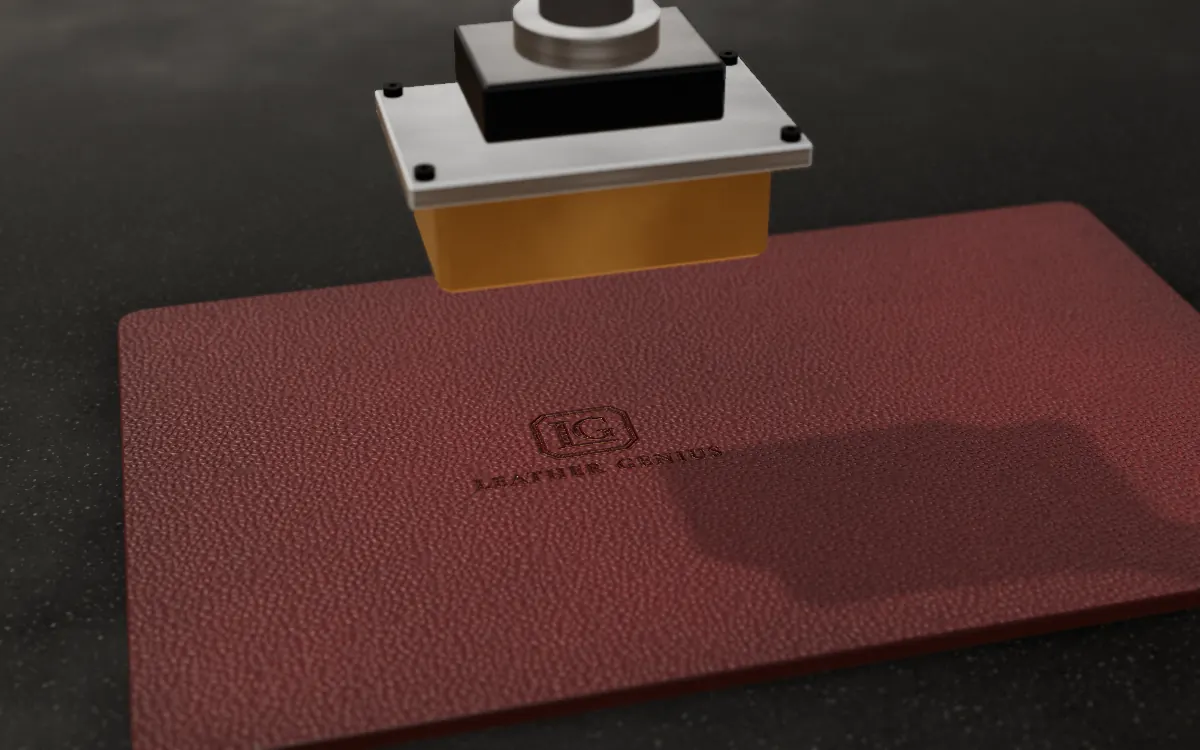
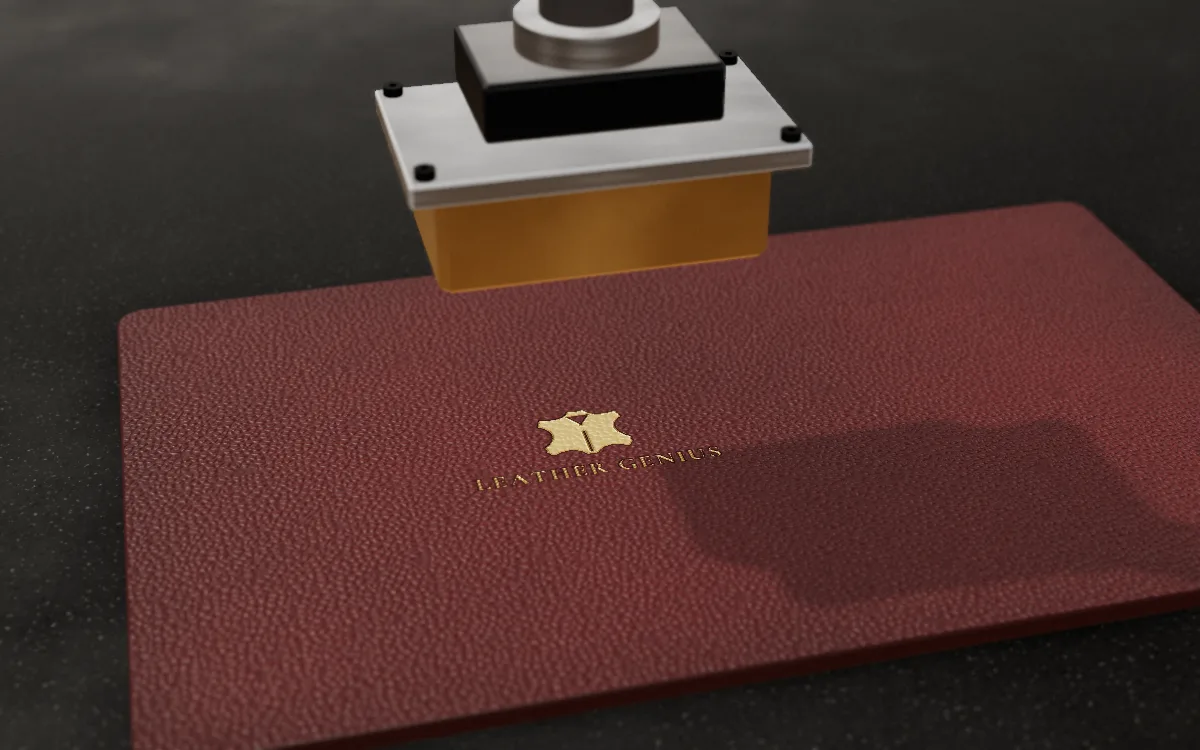
Rebrand animations (zipper pull, stamp die, workbench marks) with the hide mark + LEATHER GENIUS wordmark; regenerate posters/fallbacks; jacket-focused titles and meta

Changed region(s): [[0.4317, 0.5213, 0.5858, 0.644]]

diff --git a/public/assets/fx/zipper/module.js b/public/assets/fx/zipper/module.js
@@ -159,9 +159,9 @@ function loadImage(url) {
   return new Promise((res, rej) => { const i = new Image(); i.decoding = 'async'; i.onload = () => res(i); i.onerror = rej; i.src = url; });
 }
 
-const LG_PATH = 'M12 0H52L64 12V52L52 64H12L0 52V12ZM49.64 48.86 54 44.5H21.5V44.2Q21.48 43.9 21.48 43.46V22.68Q21.48 21.62 21.61 21.2Q22.030 21.05 23.16 21.05Q23.66 21.05 24.07 20.77Q24.44 20.53 24.64 20.13Q24.83 19.73 24.83 19.23Q24.83 18.73 24.64 18.34Q24.44 17.94 24.07 17.69Q23.66 17.42 23.16 17.42L20.81 17.46Q20.79 17.46 20.78 17.47Q18.72 17.55 17.39 17.55Q16.07 17.55 14.01 17.47Q14 17.46 13.98 17.46L11.66 17.42Q10.97 17.42 10.5 17.89Q10.23 18.16 10.1 18.54Q10 18.85 10 19.23Q10 19.62 10.1 19.93Q10.23 20.3 10.5 20.58Q10.97 21.05 11.63 21.05Q12.77 21.05 13.19 21.2Q13.21 21.21 13.22 21.22Q13.36 21.58 13.36 22.64V43.64Q13.36 44.69 13.21 45.09Q12.79 45.23 11.630 45.23Q10.97 45.23 10.5 45.7Q10.23 45.97 10.1 46.35Q10 46.66 10 47.04Q10 47.43 10.1 47.73Q10.23 48.11 10.5 48.39Q10.97 48.86 11.63 48.86ZM26.1 28.68Q26.1 32.34 27.88 35.34Q29.67 38.35 33.04 40.08Q36.36 41.78 40.76 41.78Q44.73 41.78 49.66 40.71Q49.75 40.69 49.84 40.66Q50.3 40.48 50.52 40.32Q51.1 39.88 51.1 39.03Q51.1 38.72 50.95 37.9Q50.84 37.31 50.84 35.75Q50.84 33.65 50.91 32.87Q50.92 32.76 50.93 32.66Q51.67 32.66 52.08 32.07Q52.37 31.67 52.37 31.14Q52.37 30.71 52.13 30.32Q51.97 30.05 51.72 29.87Q51.36 29.61 50.92 29.61Q50.88 29.61 50.85 29.62Q48.84 29.73 46.97 29.73Q45.08 29.73 41.95 29.54Q41.91 29.54 41.88 29.54Q41.43 29.54 41.07 29.8Q40.83 29.97 40.66 30.25Q40.43 30.64 40.43 31.1Q40.43 31.67 40.73 32.08Q41.17 32.66 41.91 32.66Q43.48 32.66 44 32.85Q44.12 32.89 44.16 33.04Q44.33 33.63 44.33 35.38Q44.33 37.04 44.04 37.79Q43.87 38.25 43.56 38.38Q42.97 38.62 41.69 38.62Q39.3 38.62 37.38 37.27Q35.42 35.89 34.29 33.33Q33.14 30.69 33.14 27.27Q33.14 23.12 34.87 20.82Q36.48 18.68 39.64 18.68Q42.19 18.68 44.15 20.05Q46.15 21.45 47.31 24Q47.32 24.020 47.33 24.04Q47.57 24.53 48.07 24.74Q48.49 24.92 48.97 24.83Q49.36 24.75 49.65 24.52Q50.17 24.1 50.17 23.44Q50.17 23.38 50.17 23.32L49.68 18.15Q49.62 17.48 49.4 17.08Q49.08 16.5 48.31 16.23Q47.1 15.74 45.2 15.44Q43.31 15.14 41.47 15.14Q37.2 15.14 33.72 16.81Q30.19 18.51 28.15 21.61Q26.1 24.74 26.1 28.68Z';
+const LG_PATH = 'M25.92 0.96 L28.16 0.96 L28.48 1.28 L29.76 1.28 L30.08 1.60 L33.60 1.60 L33.92 1.28 L34.88 1.28 L35.20 0.96 L37.44 0.96 L38.40 2.24 L38.72 3.20 L41.28 5.76 L43.52 7.04 L44.16 7.04 L45.12 7.68 L47.36 8.00 L47.68 8.32 L50.24 8.32 L50.56 8.64 L51.84 8.64 L52.16 8.32 L54.72 8.32 L55.04 8.00 L56.32 8.00 L56.64 7.68 L57.60 7.68 L57.92 7.36 L59.52 7.36 L60.16 7.68 L60.48 8.32 L60.48 9.92 L61.12 11.20 L61.76 11.84 L62.08 15.04 L61.44 15.68 L60.16 16.32 L57.60 18.88 L57.60 19.20 L56.32 20.80 L55.36 22.72 L55.36 23.36 L55.04 23.68 L54.40 28.16 L54.72 28.48 L54.72 30.40 L55.04 30.72 L55.68 33.28 L56.64 34.56 L56.96 35.52 L58.56 37.44 L58.56 37.76 L60.16 39.36 L60.48 39.36 L61.76 40.64 L62.08 40.64 L63.04 41.92 L63.04 42.88 L62.40 43.84 L62.72 47.36 L61.12 48.96 L59.84 51.52 L59.20 51.84 L57.60 51.84 L54.08 49.92 L53.44 49.92 L53.12 49.60 L52.48 49.60 L51.20 48.96 L50.24 48.96 L49.92 48.64 L44.80 48.64 L44.48 48.96 L42.56 49.28 L40.64 50.24 L37.12 53.44 L36.48 54.72 L35.52 55.68 L34.88 55.68 L34.56 56.00 L34.24 55.68 L32.32 55.68 L32.00 55.36 L31.68 55.68 L29.44 55.68 L28.80 56.00 L27.52 55.04 L27.52 54.72 L26.56 53.76 L26.56 53.44 L24.32 51.20 L24.00 51.20 L21.76 49.60 L21.12 49.60 L20.80 49.28 L20.16 49.28 L18.88 48.64 L13.76 48.64 L13.44 48.96 L12.48 48.96 L12.16 49.28 L10.24 49.60 L5.76 51.84 L4.48 51.84 L3.52 51.20 L2.88 49.60 L0.96 47.36 L0.96 46.08 L1.60 44.80 L1.28 44.48 L1.28 43.84 L0.64 42.56 L0.96 42.24 L0.96 41.60 L1.92 40.64 L2.24 40.64 L5.12 37.76 L5.12 37.44 L6.72 35.52 L8.00 32.96 L8.00 32.32 L8.64 31.04 L8.64 29.76 L8.96 29.44 L8.96 25.60 L8.64 25.28 L8.64 24.00 L7.04 20.48 L5.12 18.24 L5.12 17.92 L2.88 16.00 L1.92 15.68 L1.28 14.72 L1.28 14.08 L1.92 13.12 L1.92 11.52 L2.88 10.56 L2.88 8.96 L3.20 8.64 L3.20 8.00 L3.84 7.36 L5.76 7.36 L7.04 8.00 L8.32 8.00 L8.64 8.32 L11.84 8.32 L12.16 8.64 L17.60 8.00 L17.92 7.68 L18.56 7.68 L18.88 7.36 L19.52 7.36 L20.80 6.72 L22.72 5.12 L23.04 5.12 L24.96 2.88ZM23.68 6.84 L32.00 18.80 L40.32 6.84ZM31.23 18.80 L31.23 52.97 L32.77 52.97 L32.77 18.80ZM30.08 19.94 L33.92 19.94 L33.92 26.77 L30.08 26.77Z';  // hide + collar + zip mark, 64 wide
 
-// Leather pull tab textures: colourised grain, debossed LG mark, saddle-stitched border.
+// Leather pull tab textures: colourised grain, debossed hide mark, saddle-stitched border.
 function makeTabTextures(albedoImg, normalImg, rgb, threadHex, Wt, Lt) {
   const W = 256, H = Math.round(256 * Lt / Wt);
   const pxPerWorld = W / Wt;
@@ -174,8 +174,8 @@ function makeTabTextures(albedoImg, normalImg, rgb, threadHex, Wt, Lt) {
   const g1 = h.createLinearGradient(0, 0, W, 0);
   g1.addColorStop(0, '#5a5a5a'); g1.addColorStop(0.07, '#808080'); g1.addColorStop(0.93, '#808080'); g1.addColorStop(1, '#5a5a5a');
   h.fillStyle = g1; h.fillRect(0, 0, W, H);
-  // deboss: LG octagon pressed in, letters stay proud
-  const markW = W * 0.7, mx = (W - markW) / 2, my = H * 0.58;
+  // deboss: the hide mark pressed in, collar opening and zip stay low
+  const markW = W * 0.8, mx = (W - markW) / 2, my = H * 0.60;
   const path = new Path2D(LG_PATH);
   const drawMark = (ctx, fill, blur) => {
     ctx.save(); ctx.translate(mx, my); ctx.scale(markW / 64, markW / 64);

diff --git a/public/index.html b/public/index.html
@@ -3,8 +3,8 @@
 <head>
   <meta charset="utf-8">
   <meta name="viewport" content="width=device-width, initial-scale=1">
-  <title>Private-Label Leather Jackets &amp; Bags Manufacturer | Leather Genius, Sialkot, Pakistan</title>
-  <meta name="description" content="We make leather jackets, bags and twill outerwear for other brands in Sialkot, Pakistan. Your first sample is built and sent by FedEx free. Runs start at 50 units a style.">
+  <title>Private-Label Leather Jacket Manufacturer | Leather Genius, Sialkot, Pakistan</title>
+  <meta name="description" content="Private-label leather jackets for independent brands, made in Sialkot, Pakistan by a workshop exporting for 30+ years. Your first sample is free, FedEx included, in 7 to 10 days. Jacket runs start at around 100 units a style.">
   <link rel="canonical" href="https://leathergenius.site/">
   <meta name="theme-color" content="#F6EFE4">
   <meta name="color-scheme" content="light">
@@ -13,15 +13,15 @@
   <meta property="og:site_name" content="Leather Genius">
   <meta property="og:locale" content="en_US">
   <meta property="og:url" content="https://leathergenius.site/">
-  <meta property="og:title" content="Private-Label Leather Jackets &amp; Bags Manufacturer | Leather Genius, Sialkot, Pakistan">
-  <meta property="og:description" content="We make leather jackets and bags for other brands in Sialkot. The first sample is free, FedEx included.">
+  <meta property="og:title" content="Private-Label Leather Jacket Manufacturer | Leather Genius, Sialkot, Pakistan">
+  <meta property="og:description" content="Your label. Our leather. Private-label leather jackets from a 30-year Sialkot workshop. The first sample is free, FedEx included.">
   <meta property="og:image" content="https://leathergenius.site/images/og.png">
   <meta property="og:image:width" content="1200">
   <meta property="og:image:height" content="630">
   <meta property="og:image:alt" content="Leather Genius: private-label leather, made in Sialkot.">
   <meta name="twitter:card" content="summary_large_image">
-  <meta name="twitter:title" content="Private-Label Leather Jackets &amp; Bags Manufacturer | Leather Genius, Sialkot, Pakistan">
-  <meta name="twitter:description" content="We make leather jackets and bags for other brands in Sialkot. The first sample is free, FedEx included.">
+  <meta name="twitter:title" content="Private-Label Leather Jacket Manufacturer | Leather Genius, Sialkot, Pakistan">
+  <meta name="twitter:description" content="Your label. Our leather. Private-label leather jackets from a 30-year Sialkot workshop. The first sample is free, FedEx included.">
   <meta name="twitter:image" content="https://leathergenius.site/images/og.png">
 
   <link rel="icon" href="/favicon.ico?v=3" sizes="32x32">
@@ -45,7 +45,7 @@
   <script src="/assets/site.js?v=4" defer></script>
   <script src="/assets/home.js?v=2" defer></script>
   <script type="application/ld+json">
-  {"@context":"https://schema.org","@type":"Organization","name":"Leather Genius","url":"https://leathergenius.site/","sameAs":["https://www.linkedin.com/company/leather-genius/","https://www.instagram.com/leather_genius/"],"logo":"https://leathergenius.site/apple-touch-icon.png?v=3","email":"stella@getleathergenius.com","description":"Private-label manufacturer of leather jackets, bags and twill outerwear in Sialkot, Pakistan.","address":{"@type":"PostalAddress","addressLocality":"Sialkot","addressCountry":"PK"}}
+  {"@context":"https://schema.org","@type":"Organization","name":"Leather Genius","url":"https://leathergenius.site/","sameAs":["https://www.linkedin.com/company/leather-genius/","https://www.instagram.com/leather_genius/"],"logo":"https://leathergenius.site/icon-512.png?v=3","email":"stella@getleathergenius.com","description":"Private-label leather jacket manufacturer in Sialkot, Pakistan. Also bags and twill outerwear.","address":{"@type":"PostalAddress","addressLocality":"Sialkot","addressCountry":"PK"}}
   </script>
 </head>
 <body>
@@ -362,11 +362,11 @@
   });
 </script>
 <script type="module">
-  import '/assets/fx/stamp/module.js?v=1';
+  import '/assets/fx/stamp/module.js?v=2';
   LGFx.stamp.mount(document.getElementById('fx-stamp'), { leather: 'oxblood', finish: 'foil', text: null });
 </script>
 <script type="module">
-  import '/assets/fx/zipper/module.js?v=2';
+  import '/assets/fx/zipper/module.js?v=3';
   LGFx.zipper.mount(document.body, { color: 'oxblood', metal: 'brass' });
 </script>
 </body>

diff --git a/public/process/index.html b/public/process/index.html
@@ -3,8 +3,8 @@
 <head>
   <meta charset="utf-8">
   <meta name="viewport" content="width=device-width, initial-scale=1">
-  <title>Process, Terms &amp; Pricing for Private-Label Leather | Leather Genius, Sialkot, Pakistan</title>
-  <meta name="description" content="How an order with us goes: a free sample in 7 to 10 days, 50 to 100 units per style, 4 to 6 weeks of production, 50% deposit and 50% on shipment. Terms, pricing and questions.">
+  <title>Process, Terms &amp; Pricing for Private-Label Leather Jackets | Leather Genius, Sialkot, Pakistan</title>
+  <meta name="description" content="How an order with us goes: a free sample in 7 to 10 days, around 100 jackets per style (50 for bags), 4 to 6 weeks of production, 50% deposit and 50% on shipment. Terms, pricing and questions.">
   <link rel="canonical" href="https://leathergenius.site/process/">
   <meta name="theme-color" content="#F6EFE4">
   <meta name="color-scheme" content="light">
@@ -13,15 +13,15 @@
   <meta property="og:site_name" content="Leather Genius">
   <meta property="og:locale" content="en_US">
   <meta property="og:url" content="https://leathergenius.site/process/">
-  <meta property="og:title" content="Process, Terms &amp; Pricing for Private-Label Leather | Leather Genius, Sialkot, Pakistan">
-  <meta property="og:description" content="A free sample in 7 to 10 days, 50 to 100 units per style, 4 to 6 weeks of production, and nothing to pay until you approve the sample.">
+  <meta property="og:title" content="Process, Terms &amp; Pricing for Private-Label Leather Jackets | Leather Genius, Sialkot, Pakistan">
+  <meta property="og:description" content="A free sample in 7 to 10 days, around 100 jackets per style, 4 to 6 weeks of production, and nothing to pay until you approve the sample.">
   <meta property="og:image" content="https://leathergenius.site/images/og.png">
   <meta property="og:image:width" content="1200">
   <meta property="og:image:height" content="630">
   <meta property="og:image:alt" content="Leather Genius: private-label leather, made in Sialkot.">
   <meta name="twitter:card" content="summary_large_image">
-  <meta name="twitter:title" content="Process, Terms &amp; Pricing for Private-Label Leather | Leather Genius, Sialkot, Pakistan">
-  <meta name="twitter:description" content="A free sample in 7 to 10 days, 50 to 100 units per style, 4 to 6 weeks of production, and nothing to pay until you approve the sample.">
+  <meta name="twitter:title" content="Process, Terms &amp; Pricing for Private-Label Leather Jackets | Leather Genius, Sialkot, Pakistan">
+  <meta name="twitter:description" content="A free sample in 7 to 10 days, around 100 jackets per style, 4 to 6 weeks of production, and nothing to pay until you approve the sample.">
   <meta name="twitter:image" content="https://leathergenius.site/images/og.png">
 
   <link rel="icon" href="/favicon.ico?v=3" sizes="32x32">

diff --git a/public/capabilities/index.html b/public/capabilities/index.html
@@ -3,8 +3,8 @@
 <head>
   <meta charset="utf-8">
   <meta name="viewport" content="width=device-width, initial-scale=1">
-  <title>Materials, Branding &amp; Quality Control | Leather Genius, Sialkot, Pakistan</title>
-  <meta name="description" content="The leathers we cut from in Sialkot, by weight: lambskin, cowhide, goat, suede, twill. Linings, YKK and RIRI zips, your branding, and the checks we run before every shipment.">
+  <title>Jacket Leathers, Branding &amp; Quality Control | Leather Genius, Sialkot, Pakistan</title>
+  <meta name="description" content="The leathers we cut jackets from in Sialkot, by weight: lambskin, cowhide, goat, suede, twill. Linings, YKK and RIRI zips, your branding, and the checks we run before every shipment.">
   <link rel="canonical" href="https://leathergenius.site/capabilities/">
   <meta name="theme-color" content="#F6EFE4">
   <meta name="color-scheme" content="light">
@@ -13,14 +13,14 @@
   <meta property="og:site_name" content="Leather Genius">
   <meta property="og:locale" content="en_US">
   <meta property="og:url" content="https://leathergenius.site/capabilities/">
-  <meta property="og:title" content="Materials, Branding &amp; Quality Control | Leather Genius, Sialkot, Pakistan">
+  <meta property="og:title" content="Jacket Leathers, Branding &amp; Quality Control | Leather Genius, Sialkot, Pakistan">
   <meta property="og:description" content="Lambskin, cowhide, goat, suede and twill by weight, our linings and hardware, your branding, and the checks we run before every shipment.">
   <meta property="og:image" content="https://leathergenius.site/images/og.png">
   <meta property="og:image:width" content="1200">
   <meta property="og:image:height" content="630">
   <meta property="og:image:alt" content="Leather Genius: private-label leather, made in Sialkot.">
   <meta name="twitter:card" content="summary_large_image">
-  <meta name="twitter:title" content="Materials, Branding &amp; Quality Control | Leather Genius, Sialkot, Pakistan">
+  <meta name="twitter:title" content="Jacket Leathers, Branding &amp; Quality Control | Leather Genius, Sialkot, Pakistan">
   <meta name="twitter:description" content="Lambskin, cowhide, goat, suede and twill by weight, our linings and hardware, your branding, and the checks we run before every shipment.">
   <meta name="twitter:image" content="https://leathergenius.site/images/og.png">
 

diff --git a/public/sample/index.html b/public/sample/index.html
@@ -3,8 +3,8 @@
 <head>
   <meta charset="utf-8">
   <meta name="viewport" content="width=device-width, initial-scale=1">
-  <title>Request a Free Sample | Leather Genius, Sialkot, Pakistan</title>
-  <meta name="description" content="Tell us the style and we'll build the first piece free in Sialkot and send it by FedEx at our cost. It takes 7 to 10 days, and you pay nothing unless you approve it and order.">
+  <title>Request a Free Leather Jacket Sample | Leather Genius, Sialkot, Pakistan</title>
+  <meta name="description" content="Tell us the jacket style and we'll build the first piece free in Sialkot and send it by FedEx at our cost. It takes 7 to 10 days, and you pay nothing unless you approve it and order.">
   <link rel="canonical" href="https://leathergenius.site/sample/">
   <meta name="theme-color" content="#F6EFE4">
   <meta name="color-scheme" content="light">
@@ -13,14 +13,14 @@
   <meta property="og:site_name" content="Leather Genius">
   <meta property="og:locale" content="en_US">
   <meta property="og:url" content="https://leathergenius.site/sample/">
-  <meta property="og:title" content="Request a Free Sample | Leather Genius, Sialkot, Pakistan">
+  <meta property="og:title" content="Request a Free Leather Jacket Sample | Leather Genius, Sialkot, Pakistan">
   <meta property="og:description" content="We build your first piece free and send it by FedEx at our cost. You pay nothing until you approve it.">
   <meta property="og:image" content="https://leathergenius.site/images/og.png">
   <meta property="og:image:width" content="1200">
   <meta property="og:image:height" content="630">
   <meta property="og:image:alt" content="Leather Genius: private-label leather, made in Sialkot.">
   <meta name="twitter:card" content="summary_large_image">
-  <meta name="twitter:title" content="Request a Free Sample | Leather Genius, Sialkot, Pakistan">
+  <meta name="twitter:title" content="Request a Free Leather Jacket Sample | Leather Genius, Sialkot, Pakistan">
   <meta name="twitter:description" content="We build your first piece free and send it by FedEx at our cost. You pay nothing until you approve it.">
   <meta name="twitter:image" content="https://leathergenius.site/images/og.png">
 

diff --git a/public/workbench/index.html b/public/workbench/index.html
@@ -30,7 +30,7 @@
 
   <link rel="stylesheet" href="/assets/inner.css?v=4">
   <link rel="stylesheet" href="/assets/workbench.css?v=1">
-  <script src="/assets/workbench.js?v=1" defer></script>
+  <script src="/assets/workbench.js?v=2" defer></script>
 </head>
 <body>
 <a class="skip-link" href="#main">Skip to content</a>
@@ -88,7 +88,7 @@
         </div>
         <div class="wb-tools__sub" data-panel="stamp" hidden>
           <div class="wb-seg" role="group" aria-label="Mark">
-            <button type="button" class="wb-sw" data-mark="lg" aria-pressed="true">LG mark</button>
+            <button type="button" class="wb-sw" data-mark="lg" aria-pressed="true">Hide mark</button>
             <button type="button" class="wb-sw" data-mark="word" aria-pressed="false">Leather Genius</button>
             <button type="button" class="wb-sw" data-mark="text" aria-pressed="false">Your name</button>
             <label class="wb-text"><span class="visually-hidden">Your brand name</span><input type="text" maxlength="16" placeholder="Your brand" autocomplete="off" spellcheck="false"></label>

diff --git a/public/assets/workbench.js b/public/assets/workbench.js
@@ -508,7 +508,7 @@
     gl.generateMipmap(gl.TEXTURE_2D);
   }
 
-  // LG mark for the zip pull (white on black).
+  // Hide mark for the zip pull (white on black).
   var T_MARK = tex(128, 128);
   var markImg = new Image(), wordImg = new Image();
   var marksReady = 0;
@@ -527,8 +527,8 @@
       dirty = true;
     }
   };
-  markImg.src = '/favicon.svg?v=2';
-  wordImg.src = '/images/logo.svg?v=2';
+  markImg.src = '/favicon.svg?v=3';
+  wordImg.src = '/images/logo.svg?v=3';
 
   // Draw `src` softened by about `r` px (filter blur where supported, else a small kernel).
   var hasFilter = typeof mkCanvas(1, 1).getContext('2d').filter === 'string';

diff --git a/public/assets/site.css b/public/assets/site.css
@@ -976,8 +976,8 @@ h3, h4, .h3, .h4 {
 .deboss > i { display: none; }
 .deboss::before, .deboss::after {
   content: ""; position: absolute; inset: 0;
-  -webkit-mask: url("/images/logo.svg?v=2") 0 0 / auto 100% no-repeat;
-  mask: url("/images/logo.svg?v=2") 0 0 / auto 100% no-repeat;
+  -webkit-mask: url("/images/logo.svg?v=3") 0 0 / auto 100% no-repeat;
+  mask: url("/images/logo.svg?v=3") 0 0 / auto 100% no-repeat;
 }
 /* Hot-foil gold on the espresso leather: a shadow pressed under the foil, then the foil itself */
 .deboss::before { transform: translateY(1px); background: rgba(0, 0, 0, .55); filter: blur(.4px); }
